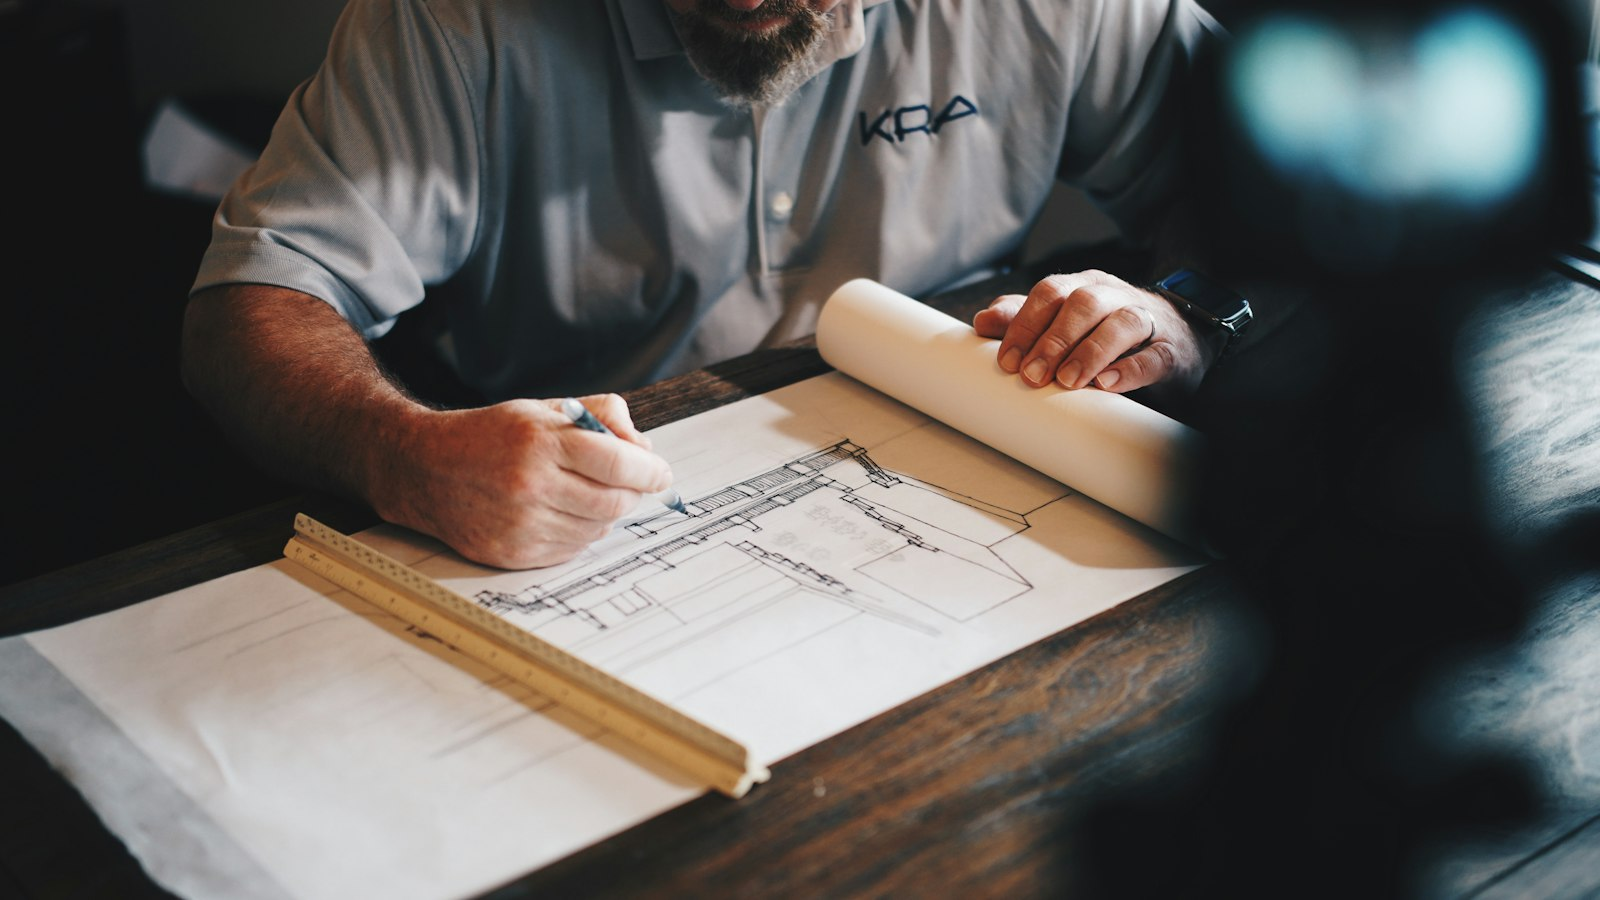
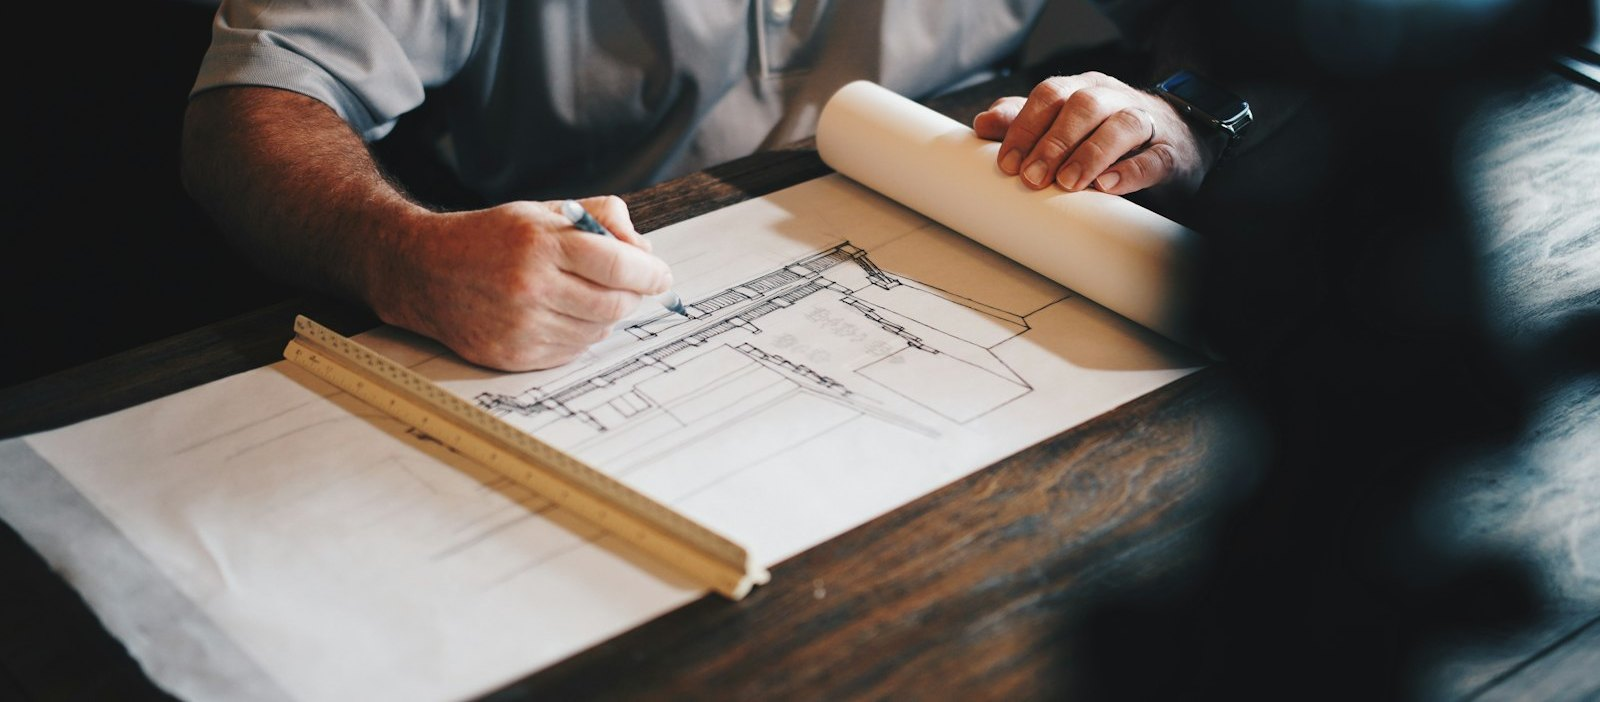
Show community support as the work, not a portrait.
The old photograph could have been any office. The pathway now shows a support worker with the people, and the drawing photo no longer carries another organization's mark.

diff --git a/src/styles.css b/src/styles.css
@@ -390,7 +390,17 @@ a:hover { color: var(--gold-deep); }
   border: 1px solid var(--line);
 }
 
-.pathway-card img { width: 100%; aspect-ratio: 16/10; object-fit: cover; }
+.pathway-card,
+.program-row,
+.program-photo {
+  border-top: 3px solid var(--line);
+}
+.tone-construction { border-top-color: var(--construction); }
+.tone-logistics { border-top-color: var(--logistics); }
+.tone-community { border-top-color: var(--community); }
+
+.pathway-card img { width: 100%; aspect-ratio: 16/10; object-fit: cover; object-position: center 42%; }
+.tone-community img { object-position: center 28%; }
 .pathway-card div,
 .card-grid article,
 .role-grid article { padding: 1.15rem 1.15rem 1.3rem; }

diff --git a/src/site.ts b/src/site.ts
@@ -117,7 +117,7 @@ export const PATHWAYS: Pathway[] = [
     phase: 'After Construction',
     tone: 'community',
     image: publicUrl('media/community.jpg'),
-    imageAlt: 'A woman seated in a bright office, looking toward the camera.',
+    imageAlt: 'A support worker sits at a table with two older women, knitting with them in a care setting.',
     summary:
       'A future pathway for client communication, documentation, boundaries, and front-line community work.',
     promise:

diff --git a/src/pages/Programs.tsx b/src/pages/Programs.tsx
@@ -67,7 +67,7 @@ export function ProgramPage() {
       <section className="band">
         <div className="wrap program-layout">
           <div>
-            <figure className="program-photo">
+            <figure className={`program-photo tone-${program.tone}`}>
               <img src={program.image} alt={program.imageAlt} />
             </figure>
             <h2>Who it is for</h2>
